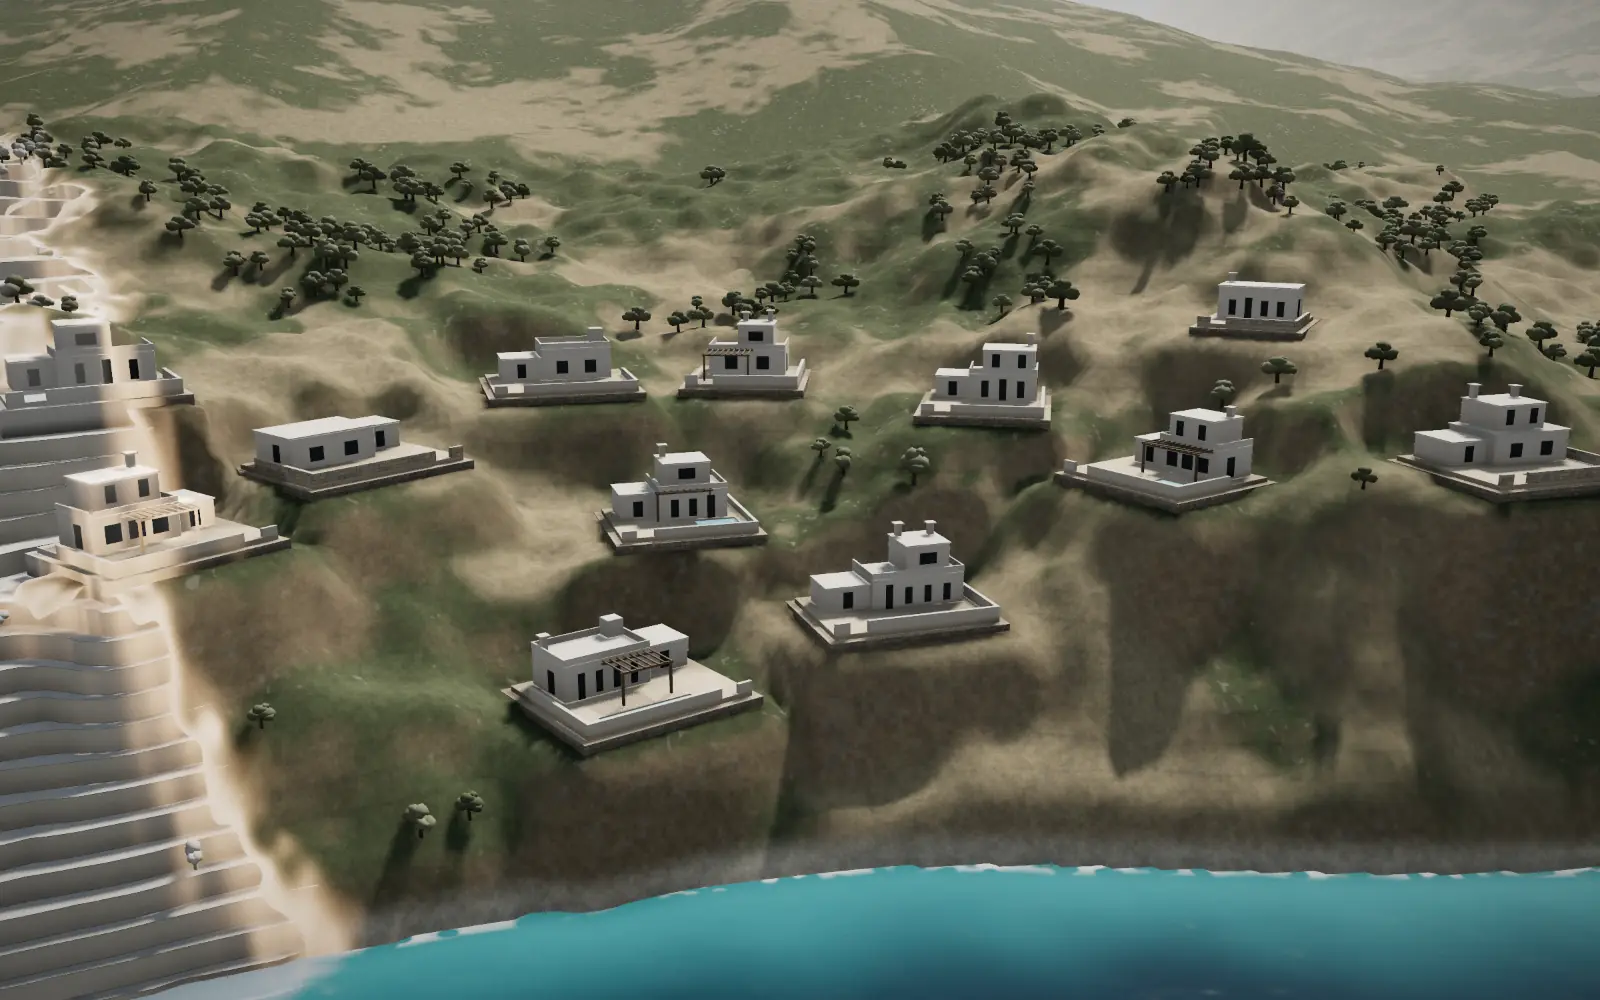
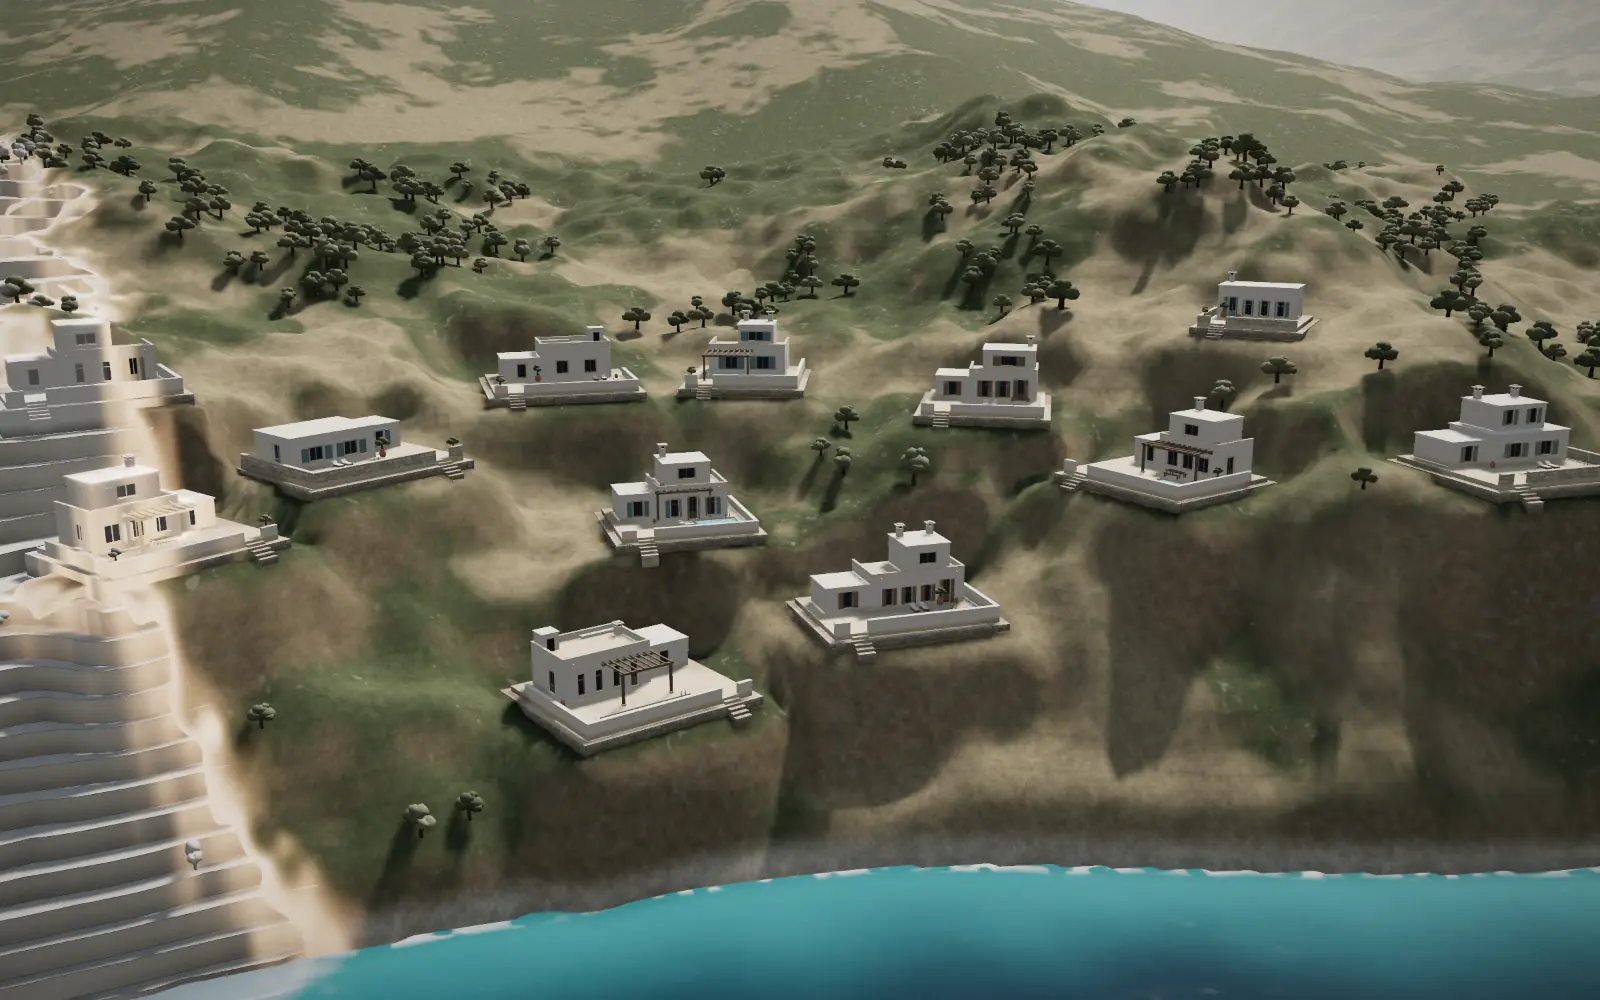
fix(onikitas): reshoot stills from the detailed scene, evening at 20:00
Still capture draws every house at its near level; the seven fallback
frames (no WebGL, reduced motion) now show the new villas and the
evening frame matches the dial's opening hour.

diff --git a/components/onikitas/scene/Scene.tsx b/components/onikitas/scene/Scene.tsx
@@ -240,7 +240,9 @@ function WorldMeshes({ built, tier }: { built: Built; tier: Tier }) {
         m.userData.villa = i;
       }
       lod.addLevel(near, 0);
-      lod.addLevel(far, LOD_FAR, 0.06);
+      // still capture (?still=n) renders every house at its near level: the
+      // stills stand in for the scene where it cannot run, details included
+      lod.addLevel(far, store.still >= 0 ? 1e9 : LOD_FAR, 0.06);
       g.add(lod);
     });
     return g;

diff --git a/components/onikitas/Stills.tsx b/components/onikitas/Stills.tsx
@@ -10,7 +10,8 @@ import { asset } from "@/lib/asset";
 // reduced motion, for browsers without WebGL2 and as the no-JS backdrop.
 
 const FRAMES = chapters.map((c) => asset(`/onikitas/frames/${c.id}.webp`));
-const HOURS = [5.7, 7.0, 10.0, 13.0, 16.5, 19.67, 21.3];
+// the hour each frame shows (the evening frame is the dial's opening hour, 20:00)
+const HOURS = [5.7, 7.0, 10.0, 13.0, 16.5, 20.0, 21.3];
 
 function nearest(h: number) {
   let best = 0;

diff --git a/.tasarim/onikitas/TASARIM.md b/.tasarim/onikitas/TASARIM.md
@@ -102,7 +102,7 @@ Ne değişti: (1) efekt katmanı ısınırken renderer ACES ton eşlemesini koru
 | 6 | THREE.Clock uyarısı, D3D "gradient in loop" gölgelendirici uyarısı | Kütüphane içi / önceden beri | Zararsız, izlenecek |
 | 7 | Öğle metni "Her avluyu evin kuzeyine aldık" sahnede gösterilmiyor | Kapsam dışı | Kabul |
 | 8 | ~~Villa ayrıntısı~~ | Kapandı (üçüncü tur, `scene/villa.ts`) | |
-| 9 | Durağan kareler (yazılım çizici ve hareket azaltma yedeği) eski kutu villaları ve akşamı 19:40 ışığıyla gösteriyor | Kareler sahneden yeniden çekilmedi (bu turun listesinde yoktu) | 7 kareyi `?still=n` ile GPU açık yeniden çek |
+| 9 | ~~Durağan kareler eski villaları ve 19:40 akşamını gösteriyor~~ | Kapandı (üçüncü tur, ayrı commit): 7 kare yeni sahneden, GPU açık, `?still=n` ile; yakalamada her ev yakın seviyede (tam ayrıntı); akşam karesi 20:00; kareler yalnız sahne (şerit/perde yok), metin zemini canlıdaki gibi DOM'da. 1600×1000 webp, 28–95 KB | |
 | 10 | ~~Metin şeridi sahneyi örtüyor~~ | Kapandı (üçüncü tur: yalnız metin zemini) | |
 | 11 | İlk boyamayla çakışan ~140 ms'lik React canlandırma görevi (soğuk tarayıcı) | Ortak Next/React yükü, demoya özgü değil | Kabul; FCP sonrası TBT'ye girmiyor |
 | 12 | Telefon ölçümü masaüstü GPU'sunda öykünme; orta sınıf Android'de TBT ölçülmedi | Cihaz yok | Yayından sonra PageSpeed Insights ya da gerçek telefon |
